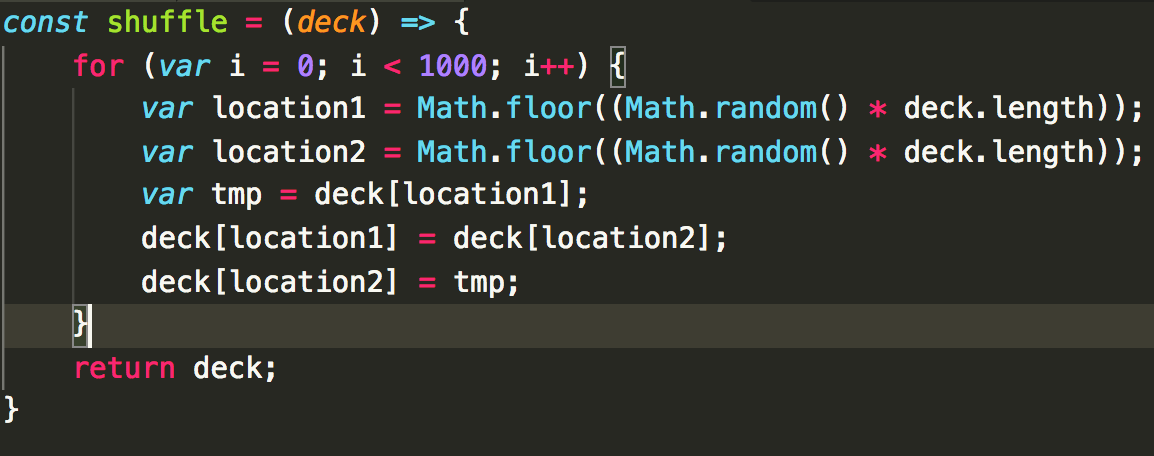
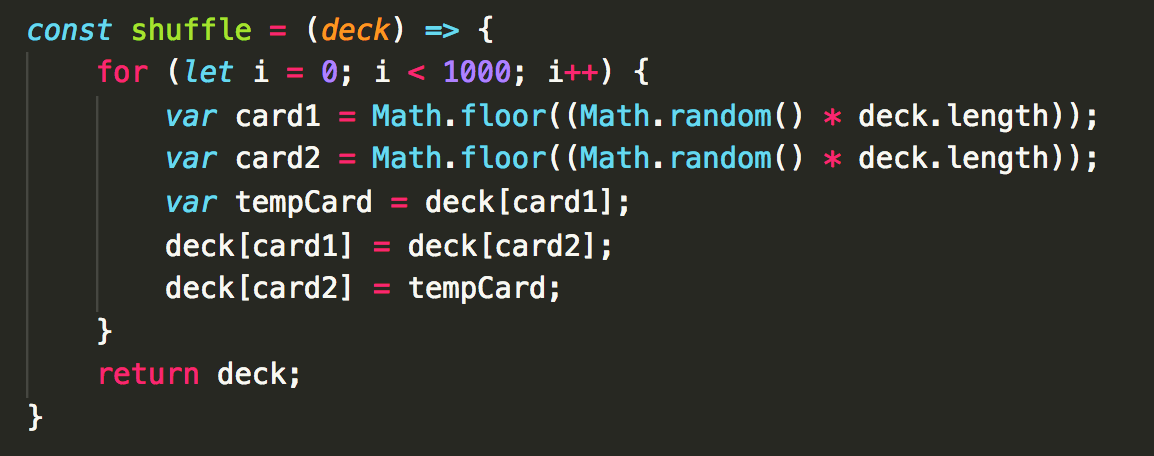
add

diff --git a/js/shuffle.js b/js/shuffle.js
@@ -1,10 +1,10 @@
 const shuffle = (deck) => {
-    for (var i = 0; i < 1000; i++) {
-        var location1 = Math.floor((Math.random() * deck.length));
-        var location2 = Math.floor((Math.random() * deck.length));
-        var tmp = deck[location1];
-        deck[location1] = deck[location2];
-        deck[location2] = tmp;
+    for (let i = 0; i < 1000; i++) {
+        var card1 = Math.floor((Math.random() * deck.length));
+        var card2 = Math.floor((Math.random() * deck.length));
+        var tempCard = deck[card1];
+        deck[card1] = deck[card2];
+        deck[card2] = tempCard;
     }
     return deck;
 }

diff --git a/README.md b/README.md
@@ -48,14 +48,20 @@ If the dealer loses, you win your bet amount and it's added to your chip stack. 
     <img src="/images/screen1.png" width="500px" height="450px"</img> 
 </div>
 
+Created 2 arrays, one with 4 Suits and one with 13 Faces. Loop through both arrays and create 4 cars on each suit with each face value. Card is created as Object.
+
 ### 2. Shuffling the deck
 
 <div>
     <img src="/images/screen2.png" width="500px" height="200px"</img> 
 </div>
 
+Loop through deck 1000 times and randomly switches the value of 2 random cards.
+
 ### 3. Calculating hand score
 
 <div>
     <img src="/images/screen3.png" width="500px" height="250px"</img> 
 </div>
+
+Loop through player or dealer's hand and calculate total score. Aces are worth 1 point, but if total score does not go over 21 with an Ace, then Ace is worth 11.
